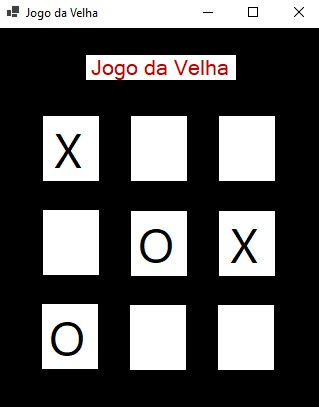
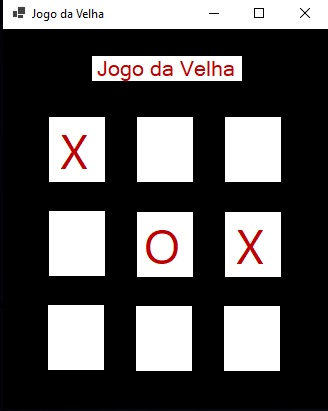
alterado cor dos símbolos e atualizadas imagens de ilustração.

diff --git a/JogoDaVelhaForm/frmJogoVelha.Designer.cs b/JogoDaVelhaForm/frmJogoVelha.Designer.cs
@@ -44,6 +44,7 @@
             // 
             this.lbl01.BackColor = System.Drawing.Color.White;
             this.lbl01.Font = new System.Drawing.Font("Segoe UI", 36F, System.Drawing.FontStyle.Regular, System.Drawing.GraphicsUnit.Point);
+            this.lbl01.ForeColor = System.Drawing.Color.FromArgb(((int)(((byte)(192)))), ((int)(((byte)(0)))), ((int)(((byte)(0)))));
             this.lbl01.Location = new System.Drawing.Point(134, 88);
             this.lbl01.MaximumSize = new System.Drawing.Size(56, 65);
             this.lbl01.MinimumSize = new System.Drawing.Size(56, 65);
@@ -57,6 +58,7 @@
             // 
             this.lbl02.BackColor = System.Drawing.Color.White;
             this.lbl02.Font = new System.Drawing.Font("Segoe UI", 36F, System.Drawing.FontStyle.Regular, System.Drawing.GraphicsUnit.Point);
+            this.lbl02.ForeColor = System.Drawing.Color.FromArgb(((int)(((byte)(192)))), ((int)(((byte)(0)))), ((int)(((byte)(0)))));
             this.lbl02.Location = new System.Drawing.Point(222, 88);
             this.lbl02.MaximumSize = new System.Drawing.Size(56, 65);
             this.lbl02.MinimumSize = new System.Drawing.Size(56, 65);
@@ -70,6 +72,7 @@
             // 
             this.lbl00.BackColor = System.Drawing.Color.White;
             this.lbl00.Font = new System.Drawing.Font("Segoe UI", 36F, System.Drawing.FontStyle.Regular, System.Drawing.GraphicsUnit.Point);
+            this.lbl00.ForeColor = System.Drawing.Color.FromArgb(((int)(((byte)(192)))), ((int)(((byte)(0)))), ((int)(((byte)(0)))));
             this.lbl00.Location = new System.Drawing.Point(46, 88);
             this.lbl00.MaximumSize = new System.Drawing.Size(56, 65);
             this.lbl00.MinimumSize = new System.Drawing.Size(56, 65);
@@ -83,6 +86,7 @@
             // 
             this.lbl11.BackColor = System.Drawing.Color.White;
             this.lbl11.Font = new System.Drawing.Font("Segoe UI", 36F, System.Drawing.FontStyle.Regular, System.Drawing.GraphicsUnit.Point);
+            this.lbl11.ForeColor = System.Drawing.Color.FromArgb(((int)(((byte)(192)))), ((int)(((byte)(0)))), ((int)(((byte)(0)))));
             this.lbl11.Location = new System.Drawing.Point(134, 183);
             this.lbl11.MaximumSize = new System.Drawing.Size(56, 65);
             this.lbl11.MinimumSize = new System.Drawing.Size(56, 65);
@@ -96,6 +100,7 @@
             // 
             this.lbl10.BackColor = System.Drawing.Color.White;
             this.lbl10.Font = new System.Drawing.Font("Segoe UI", 36F, System.Drawing.FontStyle.Regular, System.Drawing.GraphicsUnit.Point);
+            this.lbl10.ForeColor = System.Drawing.Color.FromArgb(((int)(((byte)(192)))), ((int)(((byte)(0)))), ((int)(((byte)(0)))));
             this.lbl10.Location = new System.Drawing.Point(46, 182);
             this.lbl10.MaximumSize = new System.Drawing.Size(56, 65);
             this.lbl10.MinimumSize = new System.Drawing.Size(56, 65);
@@ -109,6 +114,7 @@
             // 
             this.lbl12.BackColor = System.Drawing.Color.White;
             this.lbl12.Font = new System.Drawing.Font("Segoe UI", 36F, System.Drawing.FontStyle.Regular, System.Drawing.GraphicsUnit.Point);
+            this.lbl12.ForeColor = System.Drawing.Color.FromArgb(((int)(((byte)(192)))), ((int)(((byte)(0)))), ((int)(((byte)(0)))));
             this.lbl12.Location = new System.Drawing.Point(222, 183);
             this.lbl12.MaximumSize = new System.Drawing.Size(56, 65);
             this.lbl12.MinimumSize = new System.Drawing.Size(56, 65);
@@ -122,6 +128,7 @@
             // 
             this.lbl22.BackColor = System.Drawing.Color.White;
             this.lbl22.Font = new System.Drawing.Font("Segoe UI", 36F, System.Drawing.FontStyle.Regular, System.Drawing.GraphicsUnit.Point);
+            this.lbl22.ForeColor = System.Drawing.Color.FromArgb(((int)(((byte)(192)))), ((int)(((byte)(0)))), ((int)(((byte)(0)))));
             this.lbl22.Location = new System.Drawing.Point(221, 277);
             this.lbl22.MaximumSize = new System.Drawing.Size(56, 65);
             this.lbl22.MinimumSize = new System.Drawing.Size(56, 65);
@@ -135,6 +142,7 @@
             // 
             this.lbl21.BackColor = System.Drawing.Color.White;
             this.lbl21.Font = new System.Drawing.Font("Segoe UI", 36F, System.Drawing.FontStyle.Regular, System.Drawing.GraphicsUnit.Point);
+            this.lbl21.ForeColor = System.Drawing.Color.FromArgb(((int)(((byte)(192)))), ((int)(((byte)(0)))), ((int)(((byte)(0)))));
             this.lbl21.Location = new System.Drawing.Point(133, 277);
             this.lbl21.MaximumSize = new System.Drawing.Size(56, 65);
             this.lbl21.MinimumSize = new System.Drawing.Size(56, 65);
@@ -148,6 +156,7 @@
             // 
             this.lbl20.BackColor = System.Drawing.Color.White;
             this.lbl20.Font = new System.Drawing.Font("Segoe UI", 36F, System.Drawing.FontStyle.Regular, System.Drawing.GraphicsUnit.Point);
+            this.lbl20.ForeColor = System.Drawing.Color.FromArgb(((int)(((byte)(192)))), ((int)(((byte)(0)))), ((int)(((byte)(0)))));
             this.lbl20.Location = new System.Drawing.Point(45, 276);
             this.lbl20.MaximumSize = new System.Drawing.Size(56, 65);
             this.lbl20.MinimumSize = new System.Drawing.Size(56, 65);

diff --git a/README.md b/README.md
@@ -39,4 +39,4 @@ Ilustração do jogo
 
 Ilustração da mensagem de vitória.
 
-![UML](print2.jpg "Vitória jogador X")
+![UML](print2.jpg "Vitória jogador O")
